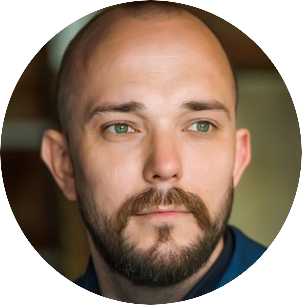
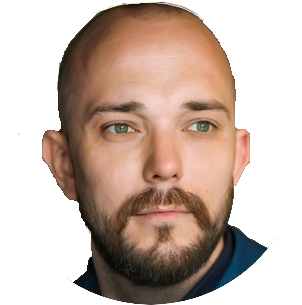
изменил все фотки кроме лысого

Changed region(s): [[0.0, 0.0, 1.0, 0.9443]]

diff --git a/index.html b/index.html
@@ -874,11 +874,11 @@
                 <div class="white__8slide">
                     <div class="teachers__box">
                         <div class="teacher__block">
-                            <img class="teachers__face" src="img/tutors/biology.png" alt="">
+                            <img class="teachers__face__biology" src="img/tutors/biology.png" alt="">
                             <p class="teacher__text"><span class="fat">Биология</span><br>4 УЧЕНИКА 100 - БАЛЛЬНИКА ЗА 7 ЛЕТ ПРЕПОДАВАНИЯ</p>     
                         </div>   
                         <div class="teacher__block">
-                            <img class="teachers__face" src="img/tutors/chem.jpg" alt="">   
+                            <img class="teachers__face__chemistry" src="img/tutors/chem.png" alt="">   
                             <p class="teacher__text"><span class="fat">Химия</span><br>6 призеров олимпиад по химии за 9 лет преподавания</p>     
                         </div>  
                             <div class="teacher__block">
@@ -888,15 +888,15 @@
                     </div>
                     <div class="teachers__box">
                         <div class="teacher__block">
-                        <img class="teachers__face" src="img/tutors/it.png" alt="">   
+                        <img class="teachers__face__it" src="img/tutors/it.png" alt="">   
                         <p class="teacher__text"><span class="fat">Информатика</span><br>Проводил олимпиады по C# и C++, Эксперт ЕГЭ</p>     
                     </div>  
                         <div class="teacher__block">
-                        <img class="teachers__face" src="img/tutors/russ.jpg" alt="">   
+                        <img class="teachers__face__russian" src="img/tutors/russ.png" alt="">   
                         <p class="teacher__text"><span class="fat">Русский язык</span><br>за 6 лет преподавания отвёл более 100 учеников, балл которых был не ниже 75 по ЕГЭ</p>     
                     </div>  
                         <div class="teacher__block">
-                        <img class="teachers__face" src="img/tutors/SS.jpg" alt="">   
+                        <img class="teachers__face__ss" src="img/tutors/SS.png" alt="">   
                         <p class="teacher__text"><span class="fat">История</span><br>выпускница МГИМО - Кафедры всемирной и отечественной истории. Опыт преподавания - более 10 лет</p>     
                     </div>  
                     </div>

diff --git a/css/style.css b/css/style.css
@@ -1580,12 +1580,16 @@ a.boot:focus:before {
     padding-top: 10px;
 }
 
-.teachers__face {
+.teachers__face__biology {
     width: 200px;
     height: 200px;
-    border: 5px inset var(--frame__gray);
-    background-color: black;
-    border-radius: 110px;
+
+}
+
+.teachers__face__chemistry {
+    width: 200px;
+    height: 200px;
+
 }
 
 .teachers__face__english {
@@ -1594,33 +1598,21 @@ a.boot:focus:before {
     display: block;
     margin: auto;
 }
-.teachers__face {
+
+.teachers__face__it {
     width: 200px;
     height: 200px;
-    border: 5px inset var(--frame__gray);
-    background-color: black;
-    border-radius: 110px;
+
 }
-.teachers__face {
+.teachers__face__russian {
     width: 200px;
     height: 200px;
-    border: 5px inset var(--frame__gray);
-    background-color: black;
-    border-radius: 110px;
+
 }
-.teachers__face {
+.teachers__face__ss {
     width: 200px;
     height: 200px;
-    border: 5px inset var(--frame__gray);
-    background-color: black;
-    border-radius: 110px;
-}
-.teachers__face {
-    width: 200px;
-    height: 200px;
-    border: 5px inset var(--frame__gray);
-    background-color: black;
-    border-radius: 110px;
+
 }
 
 .last__block {
@@ -1658,4 +1650,5 @@ a.boot:focus:before {
 * 2. блок стоимости (бордер 1 на 1 наложить)
 * 3. больше сделать маленькие смайлики на блоке (Чем онлайн-школа лучше репетиторов?)
 * 4. розоувю ликвидную кнопку
-* 5. круги на преподах */
+* 5. круги на преподах
+* 6. закруглить 1 фото */
